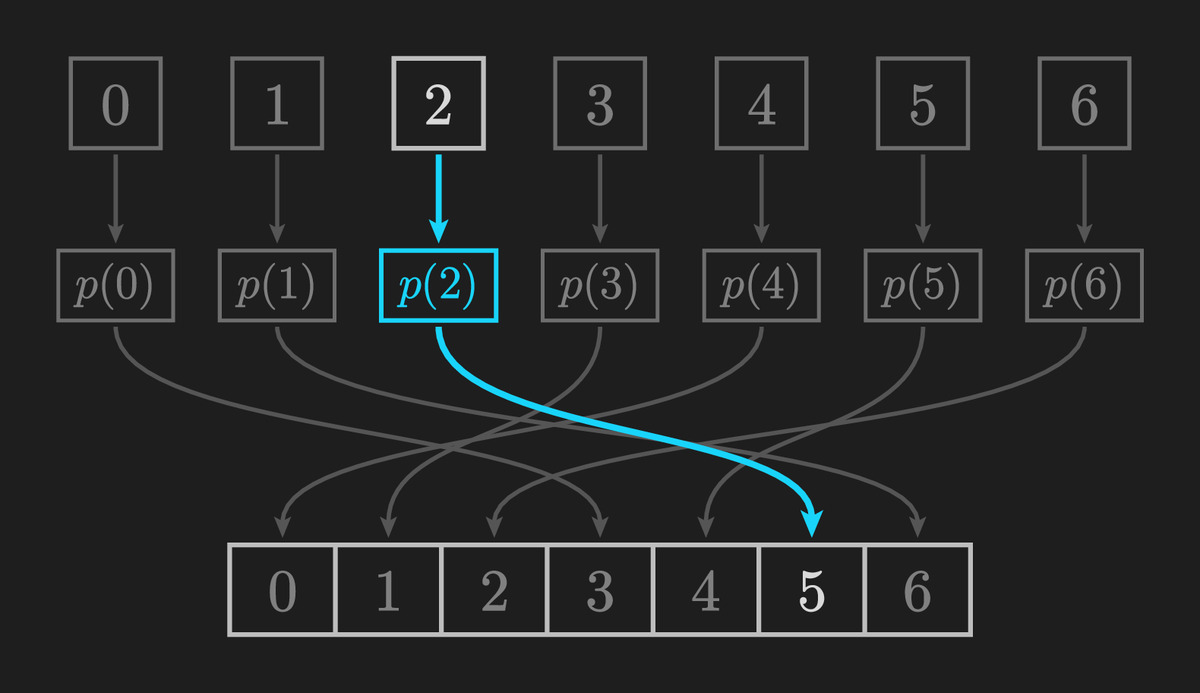
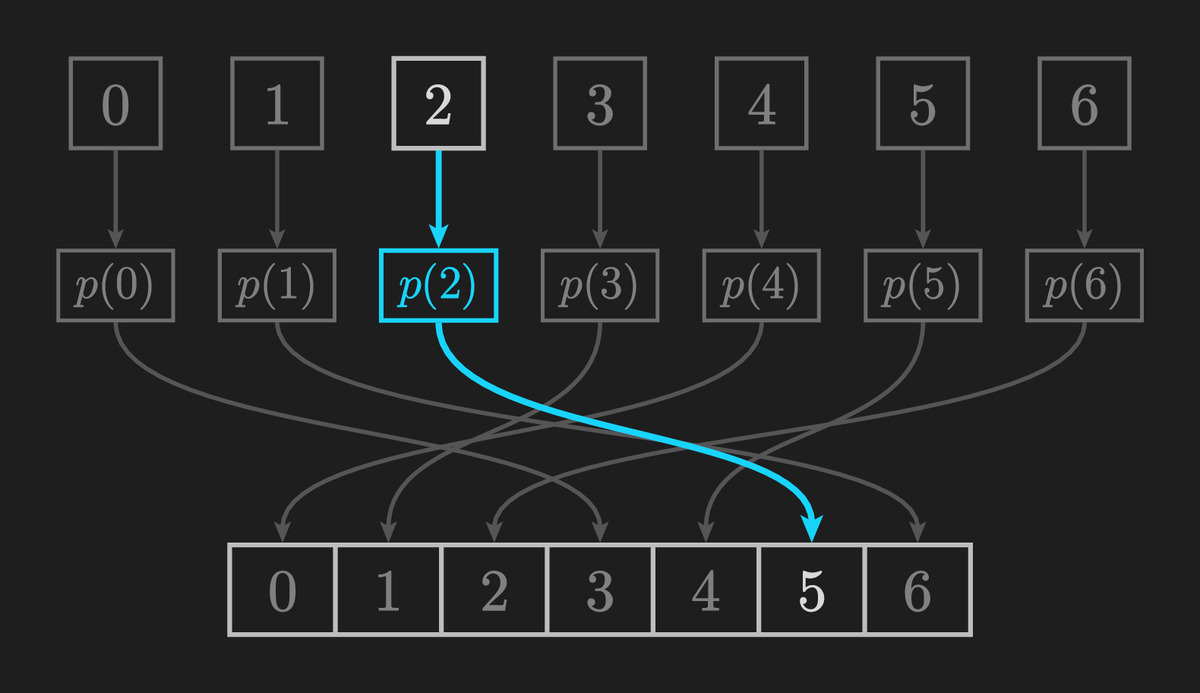
Another tweak to the permutation header.

diff --git a/post_assets/2021-03-22-permute/_src/permute-header.tex b/post_assets/2021-03-22-permute/_src/permute-header.tex
@@ -44,18 +44,18 @@
         \node[color=muteddigit, scale=1.85, anchor=center]
             at (\sx, 4.90) {$\i$};
 
-        % Vertical stem into isolated stateless function box
+        % Vertical stem into isolated stateless function box (precisely touching boundaries)
         \draw[mutedline, line width=1.3pt, -{Stealth[length=6.0pt, width=4.8pt, inset=1.2pt]}]
-            (\sx, 4.35) -- (\sx, 3.36);
+            (\sx, 4.40) -- (\sx, 3.30);
 
         % Sharp-cornered academic function box with p(i)
         \drawrect{mutedbox, line width=1.15pt, line join=miter}{\sx - 0.64}{2.50}{\sx + 0.64}{3.28}
         \node[color=muteddigit, font=\large, scale=1.22, anchor=center]
             at (\sx, 2.88) {$p(\i)$};
 
-        % Bijection curve to target array slot
+        % Bijection curve to target array slot (precisely touching boundaries)
         \draw[mutedline, line width=1.3pt, -{Stealth[length=6.5pt, width=5.1pt, inset=1.3pt]}]
-            (\sx, 2.43) .. controls (\sx, 1.15) and (\tx, 1.35) .. (\tx, 0.08);
+            (\sx, 2.48) .. controls (\sx, 1.15) and (\tx, 1.35) .. (\tx, 0.025);
     }
 
     % Target contiguous 7-element array at the bottom: y from -1.0 to 0.0
@@ -85,18 +85,18 @@
     \node[color=digitcolor, scale=1.85, anchor=center]
         at (\sxTwo, 4.90) {$2$};
 
-    % Cyan vertical stem into isolated function box
+    % Cyan vertical stem into isolated function box (precisely touching boundaries)
     \draw[swapcyan, line width=1.8pt, -{Stealth[length=7.4pt, width=5.9pt, inset=1.5pt]}]
-        (\sxTwo, 4.35) -- (\sxTwo, 3.36);
+        (\sxTwo, 4.395) -- (\sxTwo, 3.305);
 
     % Highlighted sharp-cornered function box
     \drawrect{swapcyan, line width=1.4pt, line join=miter}{\sxTwo - 0.64}{2.50}{\sxTwo + 0.64}{3.28}
     \node[color=swapcyan, font=\large, scale=1.22, anchor=center]
         at (\sxTwo, 2.88) {$p(2)$};
 
-    % Cyan curve to target array cell 5
+    % Cyan curve to target array cell 5 (precisely touching boundaries)
     \draw[swapcyan, line width=1.95pt, -{Stealth[length=8.5pt, width=6.8pt, inset=1.7pt]}]
-        (\sxTwo, 2.43) .. controls (\sxTwo, 1.15) and (\txFive, 1.35) .. (\txFive, 0.08);
+        (\sxTwo, 2.475) .. controls (\sxTwo, 1.15) and (\txFive, 1.35) .. (\txFive, 0.025);
 
 \end{tikzpicture}
 \end{document}
